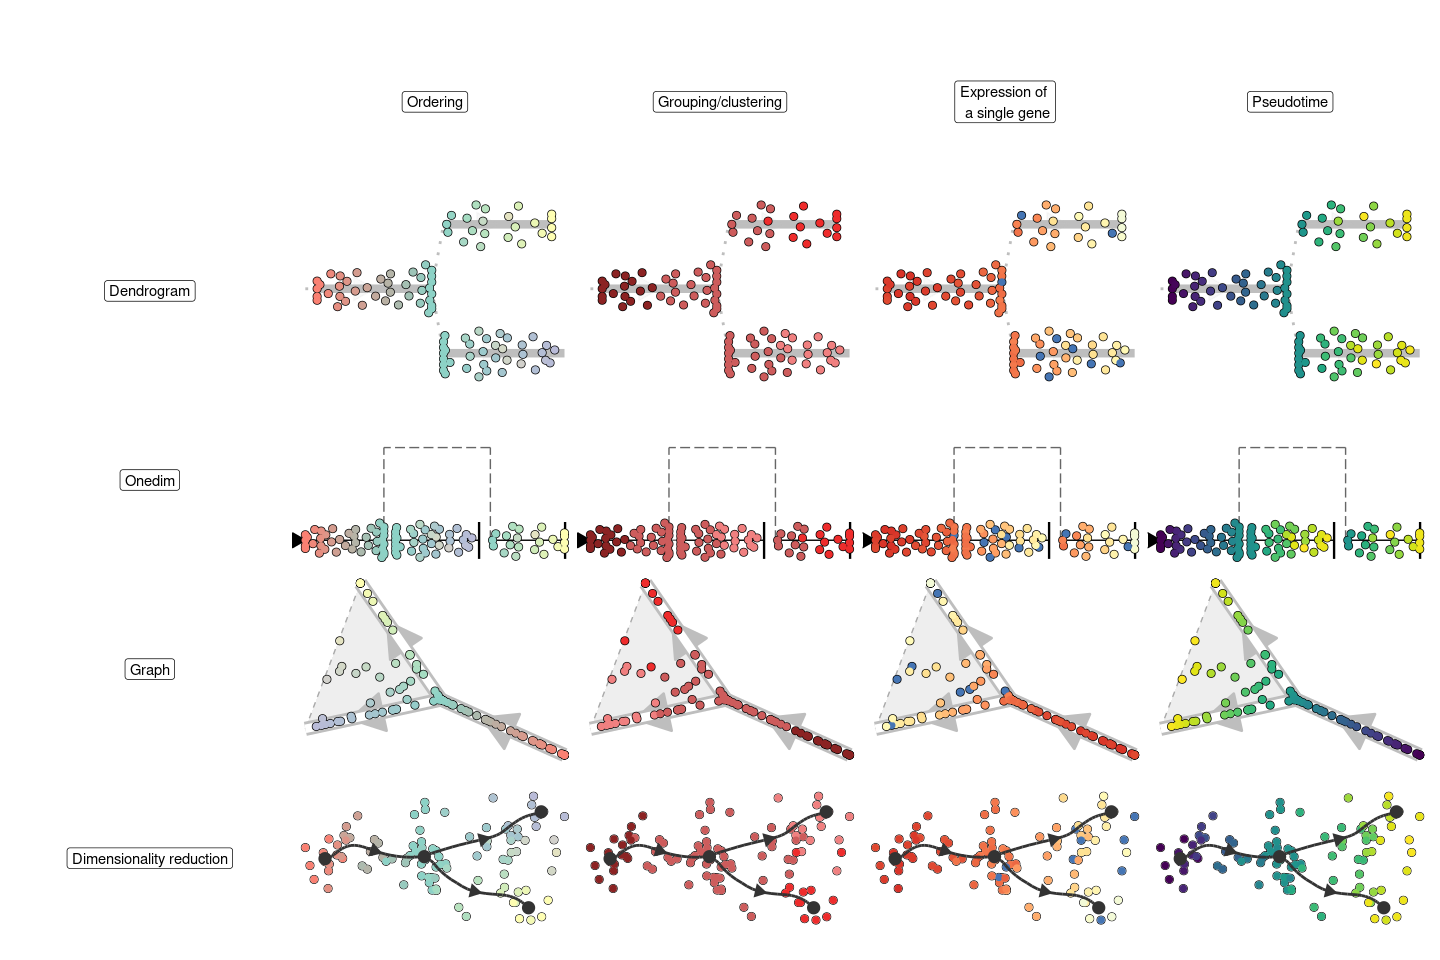
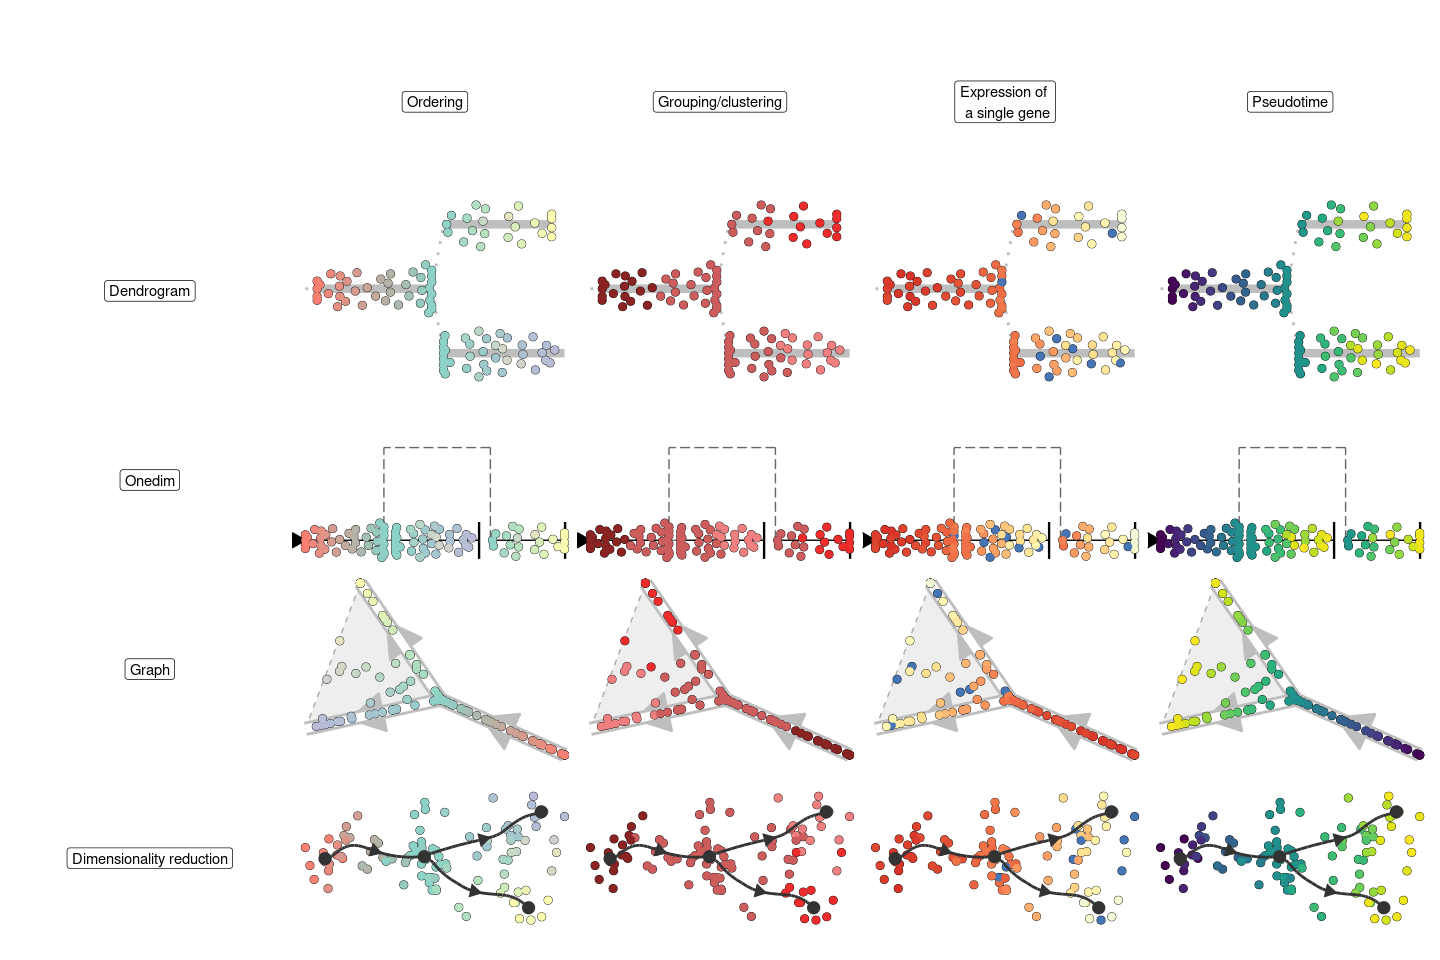
add alpha and size parameters to plotting functions

diff --git a/README.md b/README.md
@@ -41,16 +41,19 @@ changes.
 
 <!-- This section gets automatically generated from inst/NEWS.md, and also generates inst/NEWS -->
 
+### Recent changes in dynplot 1.0.2 (04-07-2019)
+
+  - BUG FIX: Fix weird ceiling warning.
+
+  - BUG FIX: Fix for new select waypoints
+
+  - MINOR CHANGE: Added parameters `size_cells`, `alpha_cells` and
+    `border_radius_percentage` to plotting functions that plot cells.
+
 ### Recent changes in dynplot 1.0.1 (07-05-2019)
 
-  - Remove shades dependency, fixing rgb2hsv bug
-
-### Recent changes in dynplot 1.0.0 (28-03-2019)
-
-  - Initial release of dynplot
-  - Plotting of trajectories
-  - Compatible with all methods of
-dynmethods
+  - BUG FIX: Remove dependency on shades, fixing rgb2hsv
+bug
 
 ## Dynverse dependencies
 

diff --git a/inst/NEWS.md b/inst/NEWS.md
@@ -1,6 +1,15 @@
+# dynplot 1.0.2 (04-07-2019) 
+
+ * BUG FIX: Fix weird ceiling warning.
+ 
+ * BUG FIX: Fix for new select waypoints (#41).
+ 
+ * MINOR CHANGE: Added parameters `size_cells`, `alpha_cells` and 
+   `border_radius_percentage` to plotting functions that plot cells (#40).
+
 # dynplot 1.0.1 (07-05-2019)
 
- * Remove shades dependency, fixing rgb2hsv bug
+ * BUG FIX: Remove dependency on shades, fixing rgb2hsv bug
 
 # dynplot 1.0.0 (28-03-2019)
 
